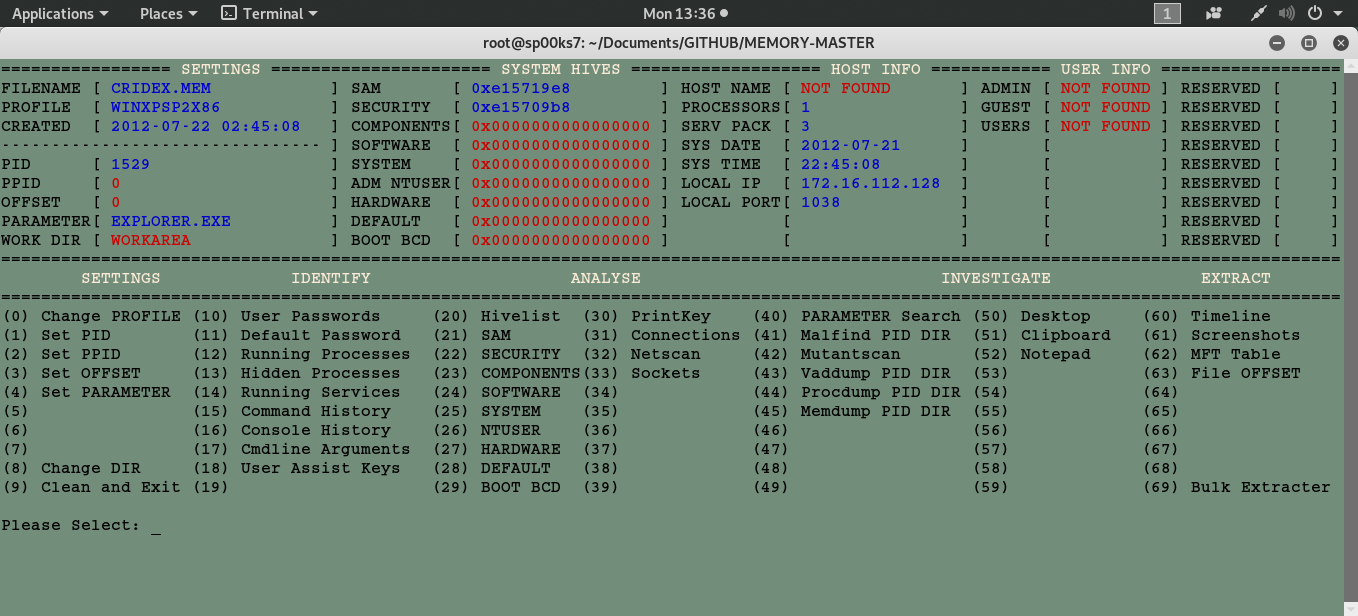
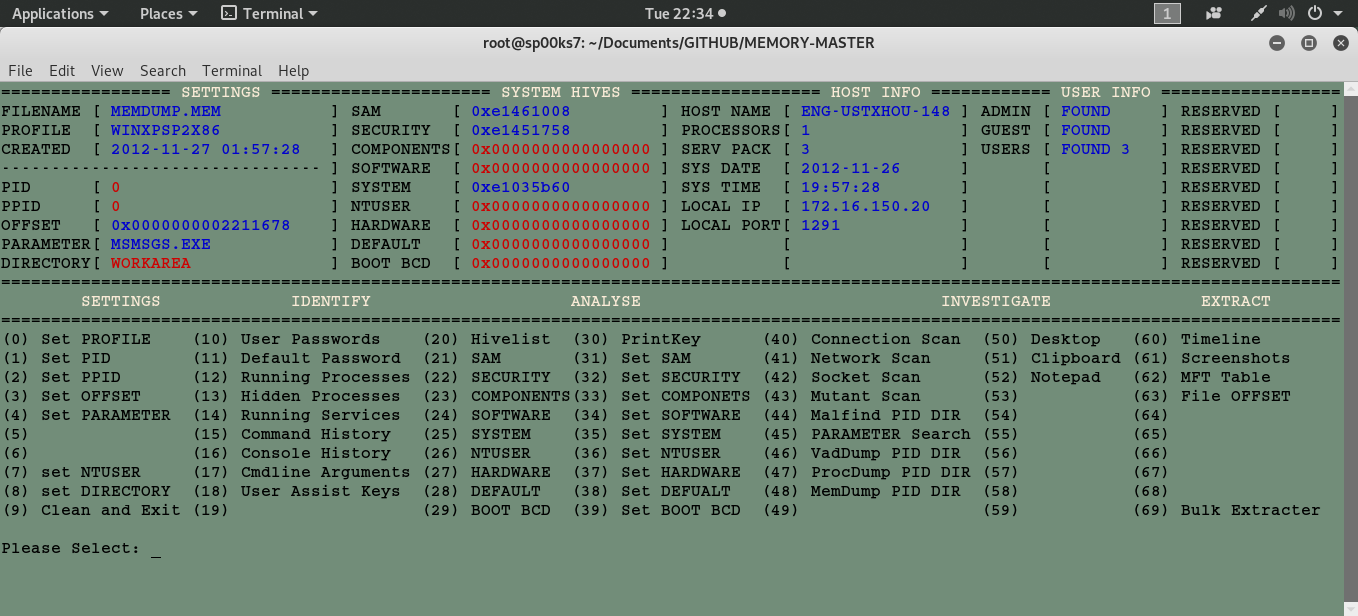
changes

Changed region(s): [[0.0, 0.0925, 1.0, 0.8945], [0.4639, 0.0, 0.5258, 0.0308]]

diff --git a/memory_master.py b/memory_master.py
@@ -276,10 +276,16 @@ while len(USR) < 9:
 # Grab local IP if alvailable.
 #-------------------------------------------------------------------------------------
 os.system("volatility -f " + fileName + PRO + " connscan > connscan.txt")
-getip = linecache.getline('connscan.txt', 3)
+os.system("sed '1d' connscan.txt > conn1.txt")
+os.system("sed '1d' conn1.txt > connscan.txt")
+#os.remove("conn1.txt")
+os.system("cut -f 2 -d ' ' connscan.txt > conn1.txt")
+os.system("strings conn1.txt | sort | uniq -c | sort -nr > connscan.txt")
+os.system("sed '1d' conn1.txt > connscan.txt")
+getip = linecache.getline('connscan.txt', 1)
 if getip != "":
    getip = getip.split()
-   getip = getip[1].replace(':',' ')  
+   getip = getip[0].replace(':',' ')  
    HIP = getip.rsplit(' ', 1)[0]
    POR = getip.rsplit(' ', 1)[1]
    HIP = HIP.rstrip('\n')
@@ -288,6 +294,7 @@ if getip != "":
    while len(POR) < 15:
       POR = POR + " "
 os.remove('connscan.txt')
+os.remove('conn1.txt')
 
 # -------------------------------------------------------------------------------------
 # AUTHOR  : Terence Broadbent                                                    
@@ -506,16 +513,16 @@ def Display():
 # -------------------------------------------------------------------------------------
 
 menu = {}
-menu['(0)']="Set PROFILE    (10) User Passwords     (20) Hivelist  (30) PrintKey    (40) PARAMETER Search (50) Desktop     (60) Timeline"
-menu['(1)']="Set PID        (11) Default Password   (21) SAM       (31) Connections (41) Malfind PID DIR  (51) Clipboard   (61) Screenshots"
-menu['(2)']="Set PPID       (12) Running Processes  (22) SECURITY  (32) Netscan     (42) Mutantscan       (52) Notepad     (62) MFT Table"
-menu['(3)']="Set OFFSET     (13) Hidden Processes   (23) COMPONENTS(33) Sockets     (43) Vaddump PID DIR  (53)             (63) File OFFSET" 
-menu['(4)']="Set PARAMETER  (14) Running Services   (24) SOFTWARE  (34)             (44) Procdump PID DIR (54)             (64)"
-menu['(5)']="               (15) Command History    (25) SYSTEM    (35)             (45) Memdump PID DIR  (55)             (65)"
-menu['(6)']="               (16) Console History    (26) NTUSER    (36)             (46)                  (56)             (66)"
-menu['(7)']="set NTUSER     (17) Cmdline Arguments  (27) HARDWARE  (37)             (47)                  (57)             (67)"
-menu['(8)']="set DIRECTORY  (18) User Assist Keys   (28) DEFAULT   (38)             (48)                  (58)             (68)"
-menu['(9)']="Clean and Exit (19)                    (29) BOOT BCD  (39)             (49)                  (59)             (69) Bulk Extracter"
+menu['(0)']="Set PROFILE    (10) User Passwords    (20) Hivelist  (30) PrintKey      (40) Connection Scan  (50) Desktop   (60) Timeline"
+menu['(1)']="Set PID        (11) Default Password  (21) SAM       (31) Set SAM       (41) Network Scan     (51) Clipboard (61) Screenshots"
+menu['(2)']="Set PPID       (12) Running Processes (22) SECURITY  (32) Set SECURITY  (42) Socket Scan      (52) Notepad   (62) MFT Table"
+menu['(3)']="Set OFFSET     (13) Hidden Processes  (23) COMPONENTS(33) Set COMPONETS (43) Mutant Scan      (53)           (63) File OFFSET" 
+menu['(4)']="Set PARAMETER  (14) Running Services  (24) SOFTWARE  (34) Set SOFTWARE  (44) Malfind PID DIR  (54)           (64)"
+menu['(5)']="               (15) Command History   (25) SYSTEM    (35) Set SYSTEM    (45) PARAMETER Search (55)           (65)"
+menu['(6)']="               (16) Console History   (26) NTUSER    (36) Set NTUSER    (46) VadDump PID DIR  (56)           (66)"
+menu['(7)']="set NTUSER     (17) Cmdline Arguments (27) HARDWARE  (37) Set HARDWARE  (47) ProcDump PID DIR (57)           (67)"
+menu['(8)']="set DIRECTORY  (18) User Assist Keys  (28) DEFAULT   (38) Set DEFUALT   (48) MemDump PID DIR  (58)           (68)"
+menu['(9)']="Clean and Exit (19)                   (29) BOOT BCD  (39) Set BOOT BCD  (49)                  (59)           (69) Bulk Extracter"
 
 
 # -------------------------------------------------------------------------------------
@@ -619,19 +626,6 @@ while True:
 # AUTHOR  : Terence Broadbent                                                    
 # CONTRACT: GitHub
 # Version : 1.0
-# Details : Menu option selected - Change NTUSER from \Admininstrator to user choice.
-# Modified: N/A
-# -------------------------------------------------------------------------------------
-
-   if selection == '7':
-      NTU = raw_input("Please enter NTUSER value: ")
-      while len(NTU) < 18:
-         NTU += " "
-
-# ------------------------------------------------------------------------------------- 
-# AUTHOR  : Terence Broadbent                                                    
-# CONTRACT: GitHub
-# Version : 1.0
 # Details : Menu option selected - Allows the user to set the Parameter string.
 # Modified: N/A
 # -------------------------------------------------------------------------------------
@@ -687,11 +681,8 @@ while True:
 # -------------------------------------------------------------------------------------
 
    if selection == '10':
-      if (SAM == "0x0000000000000000") or (SYS == "0x0000000000000000"):
-         if SAM == "0x0000000000000000":
-            print colored("SAM HIVE missing - its not possible to extract the hashes...",'red')
-         if SYS == "0x0000000000000000":
-            print colored("SYSTEM HIVE missing - its not possible to extract the hashes...",'red')
+      if SAM == "0x0000000000000000":
+         print colored("SAM HIVE missing - its not possible to extract the hashes...",'red')
       else:
          os.system("volatility -f " + fileName + PRO + " hashdump -y " + SYS + " -s " + SAM)
       raw_input("\nPress ENTER to continue...")
@@ -717,7 +708,7 @@ while True:
 # -------------------------------------------------------------------------------------
 
    if selection == '12':
-      os.system("volatility -f " + fileName + PRO + " pstree | more")
+      os.system("volatility -f " + fileName + PRO + " psscan | more")
       os.system("volatility -f " + fileName + PRO + " psscan --output greptext > F1.txt")
       os.system("tail -n +2 F1.txt > F2.txt")
       os.system("sed -i 's/>//g' F2.txt")
@@ -1003,11 +994,128 @@ while True:
 # AUTHOR  : Terence Broadbent                                                    
 # CONTRACT: GitHub
 # Version : 1.0
+# Details : Menu option selected - Change SAM via user choice.
+# Modified: N/A
+# -------------------------------------------------------------------------------------
+
+   if selection == '31':
+      SAM = raw_input("Please enter SAM value: ")
+      while len(SAM) < 18:
+         SAM += " "
+
+# ------------------------------------------------------------------------------------- 
+# AUTHOR  : Terence Broadbent                                                    
+# CONTRACT: GitHub
+# Version : 1.0
+# Details : Menu option selected - Change SECURITY via user choice.
+# Modified: N/A
+# -------------------------------------------------------------------------------------
+
+   if selection == '32':
+      SEC = raw_input("Please enter SECURITY value: ")
+      while len(SEC) < 18:
+         SEC += " "
+
+# ------------------------------------------------------------------------------------- 
+# AUTHOR  : Terence Broadbent                                                    
+# CONTRACT: GitHub
+# Version : 1.0
+# Details : Menu option selected - Change COMPENENTS via user choice.
+# Modified: N/A
+# -------------------------------------------------------------------------------------
+
+   if selection == '33':
+      COM = raw_input("Please enter COMPENENTS value: ")
+      while len(COM) < 18:
+         COM += " "
+
+# ------------------------------------------------------------------------------------- 
+# AUTHOR  : Terence Broadbent                                                    
+# CONTRACT: GitHub
+# Version : 1.0
+# Details : Menu option selected - Change SOFTWARE via user choice.
+# Modified: N/A
+# -------------------------------------------------------------------------------------
+
+   if selection == '34':
+      SOF = raw_input("Please enter SOFTWARE value: ")
+      while len(SOF) < 18:
+         SOF += " "
+
+# ------------------------------------------------------------------------------------- 
+# AUTHOR  : Terence Broadbent                                                    
+# CONTRACT: GitHub
+# Version : 1.0
+# Details : Menu option selected - Change SYSTEM via user choice.
+# Modified: N/A
+# -------------------------------------------------------------------------------------
+
+   if selection == '35':
+      SYS = raw_input("Please enter SYSTEM value: ")
+      while len(SYS) < 18:
+         SYS += " "
+
+# ------------------------------------------------------------------------------------- 
+# AUTHOR  : Terence Broadbent                                                    
+# CONTRACT: GitHub
+# Version : 1.0
+# Details : Menu option selected - Change NTUSER via user choice.
+# Modified: N/A
+# -------------------------------------------------------------------------------------
+
+   if selection == '36':
+      NTU = raw_input("Please enter NTUSER value: ")
+      while len(NTU) < 18:
+         NTU += " "
+
+# ------------------------------------------------------------------------------------- 
+# AUTHOR  : Terence Broadbent                                                    
+# CONTRACT: GitHub
+# Version : 1.0
+# Details : Menu option selected - Change HARDWARE via user choice.
+# Modified: N/A
+# -------------------------------------------------------------------------------------
+
+   if selection == '37':
+      HRD = raw_input("Please enter HARDWARE value: ")
+      while len(HRD) < 18:
+         HRD += " "
+
+# ------------------------------------------------------------------------------------- 
+# AUTHOR  : Terence Broadbent                                                    
+# CONTRACT: GitHub
+# Version : 1.0
+# Details : Menu option selected - Change DEFAULT via user choice.
+# Modified: N/A
+# -------------------------------------------------------------------------------------
+
+   if selection == '38':
+      DEF = raw_input("Please enter DEFUALT value: ")
+      while len(DEF) < 18:
+         DEF += " "
+
+# ------------------------------------------------------------------------------------- 
+# AUTHOR  : Terence Broadbent                                                    
+# CONTRACT: GitHub
+# Version : 1.0
+# Details : Menu option selected - Change BOOT BCD via user choice.
+# Modified: N/A
+# -------------------------------------------------------------------------------------
+
+   if selection == '39':
+      BCD = raw_input("Please enter BOOT BCD value: ")
+      while len(BCD) < 18:
+         BCD += " "
+
+# ------------------------------------------------------------------------------------- 
+# AUTHOR  : Terence Broadbent                                                    
+# CONTRACT: GitHub
+# Version : 1.0
 # Details : Menu option selected - Analyse the NETWORK.
 # Modified: N/A
 # -------------------------------------------------------------------------------------
 
-   if selection =='31':
+   if selection =='40':
       os.system("volatility -f " + fileName + PRO + " connscan")
       raw_input("\nPress ENTER to continue...") 
 
@@ -1019,7 +1127,7 @@ while True:
 # Modified: N/A
 # -------------------------------------------------------------------------------------
 
-   if selection =='32':
+   if selection =='41':
       os.system("volatility -f " + fileName + PRO + " netscan")
       raw_input("\nPress ENTER to continue...") 
 
@@ -1031,7 +1139,7 @@ while True:
 # Modified: N/A
 # -------------------------------------------------------------------------------------
 
-   if selection =='33':
+   if selection =='42':
       os.system("volatility -f " + fileName + PRO + " sockets")
       raw_input("\nPress ENTER to continue...") 
 
@@ -1039,13 +1147,12 @@ while True:
 # AUTHOR  : Terence Broadbent                                                    
 # CONTRACT: GitHub
 # Version : 1.0
-# Details : Menu option selected - Allows the user to Search the PARAM string.
+# Details : Menu option selected - Finds Mutants!
 # Modified: N/A
-# ------------------------------------------------------------------------------------- 
-   
-   if selection =='40':
-      os.system("volatility -f " + fileName + " " + PRO + " pslist | grep " + PRM)
-      os.system("volatility -f " + fileName + " " + PRO + " filescan | grep " + PRM)
+# -------------------------------------------------------------------------------------
+
+   if selection =='43':
+      os.system("volatility -f " + fileName + PRO + " mutantscan")
       raw_input("\nPress ENTER to continue...")
 
 # ------------------------------------------------------------------------------------- 
@@ -1056,20 +1163,21 @@ while True:
 # Modified: N/A
 # -------------------------------------------------------------------------------------
 
-   if selection =='41':
-      os.system("volatility -f " + fileName + PRO + " malfind -p " + PI1 + " --dump-dir " + DIR)
+   if selection =='44':
+      os.system("volatility -f " + fileName + PRO + " malfind -p " + PI1 + " -D " + DIR)
       raw_input("\nPress ENTER to continue...")
 
 # ------------------------------------------------------------------------------------- 
 # AUTHOR  : Terence Broadbent                                                    
 # CONTRACT: GitHub
 # Version : 1.0
-# Details : Menu option selected - Finds Mutants!
+# Details : Menu option selected - Allows the user to Search the PARAM string.
 # Modified: N/A
-# -------------------------------------------------------------------------------------
-
-   if selection =='42':
-      os.system("volatility -f " + fileName + PRO + " mutantscan")
+# ------------------------------------------------------------------------------------- 
+   
+   if selection =='45':
+      os.system("volatility -f " + fileName + " " + PRO + " pslist | grep " + PRM)
+      os.system("volatility -f " + fileName + " " + PRO + " filescan | grep " + PRM)
       raw_input("\nPress ENTER to continue...")
 
 # ------------------------------------------------------------------------------------- 
@@ -1080,7 +1188,7 @@ while True:
 # Modified: N/A
 # -------------------------------------------------------------------------------------
 
-   if selection =='43':
+   if selection =='46':
       os.system("volatility -f " + fileName + PRO + " vaddump -p " + PI1 + " --dump-dir " + DIR)
       raw_input("\nPress ENTER to continue...")
 
@@ -1092,7 +1200,7 @@ while True:
 # Modified: N/A
 # -------------------------------------------------------------------------------------
 
-   if selection =='44':
+   if selection =='47':
       os.system("volatility -f " + fileName + PRO + " procdump  -p " + PI1 + " --dump-dir " + DIR)
       raw_input("\nPress ENTER to continue...")
 
@@ -1104,7 +1212,7 @@ while True:
 # Modified: N/A
 # -------------------------------------------------------------------------------------
 
-   if selection =='45':
+   if selection =='48':
       os.system("volatility -f " + fileName + PRO + " memdump  -p " + PI1 + " --dump-dir " + DIR)
       raw_input("\nPress ENTER to continue...")
 

diff --git a/README.md b/README.md
@@ -7,7 +7,7 @@ Python utility file to forensically investigate memory-dump files via volatility
 
 | LANGUAGE  | FILENAME         | MD5 Hash                         |
 |------     |------            | -------                          |
-| python    | memory_master.py | bd2145cfe5fb4052e832a7c3085dfc11 |
+| python    | memory_master.py | 321636cea90c18ef287bc411f762e631 |
 | text file | profiles.txt     | 90a98544725dc945df30c20fabeb3e80 |
 | bash file | patch.sh         | 7a4231731982e09d9a703f7357170755 |
 
@@ -16,4 +16,3 @@ A python utility file that forensically examines Windows memory-dump files - It 
 
 ## CONSOLE DISPLAY
 ![Screenshot](picture1.png)
-![Screenshot](picture2.png)
